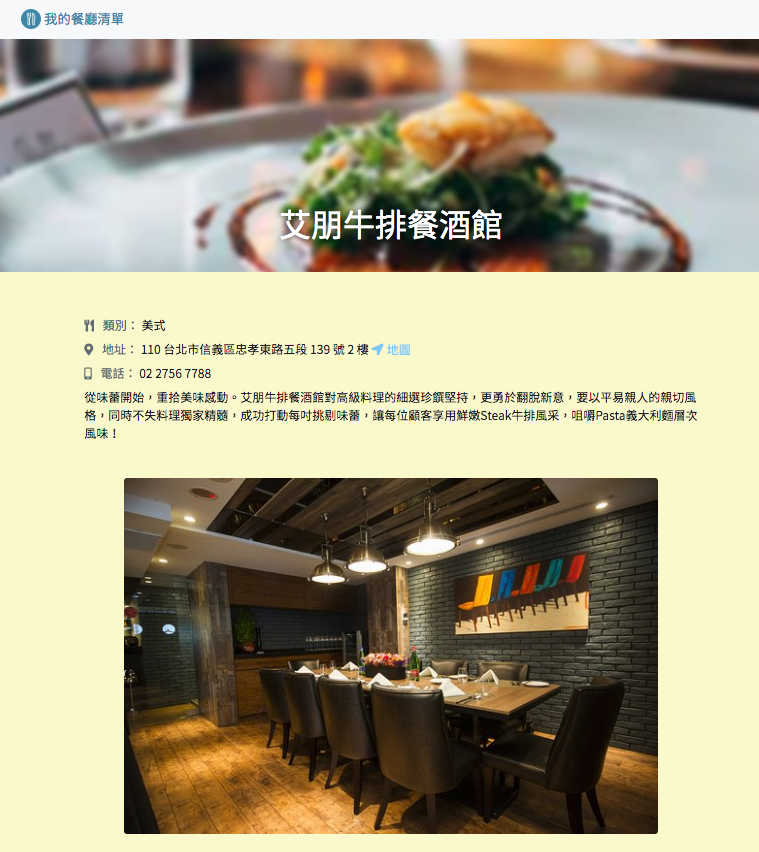
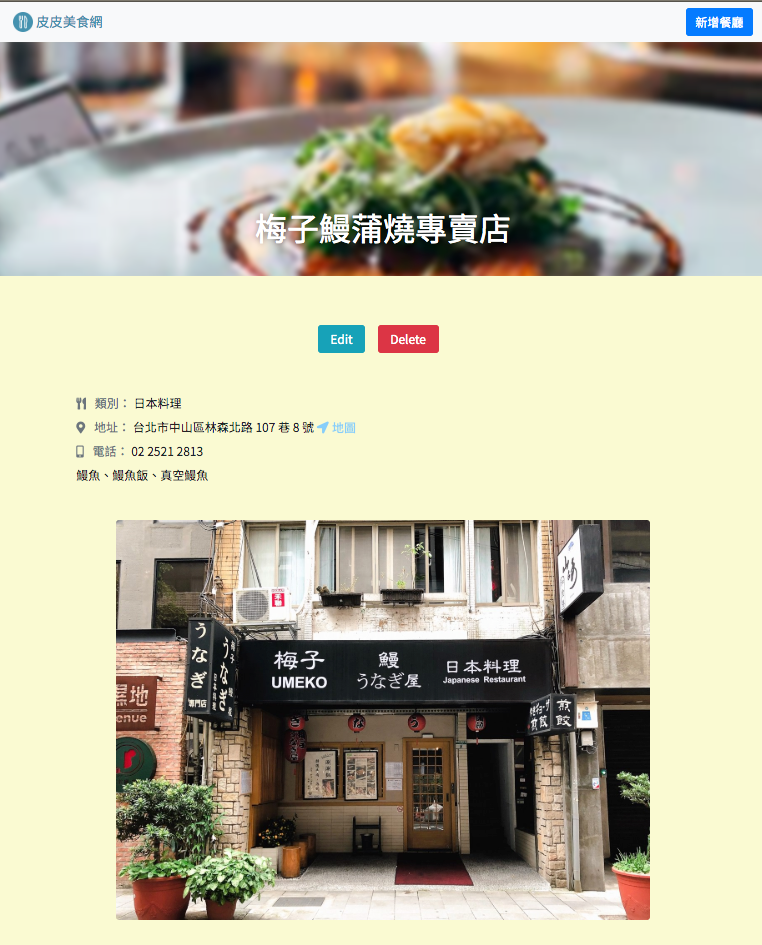
Add README.md

diff --git a/models/seeds/restaurantSeeder.js b/models/seeds/restaurantSeeder.js
@@ -31,5 +31,5 @@ db.once('open', () => {
     });
   }
 
-  console.log('done');
+  console.log('Restaurant date already created!');
 });

diff --git a/README.md b/README.md
@@ -1,25 +1,70 @@
-# Project Title - 餐廳網站
+# 皮皮美食網
 
-一個使用 Node.js + Express 打造的餐廳網站，使用者可依照餐廳名稱與類別進行搜尋
+一個使用 Node.js + Express 打造的餐廳美食網站，使用者可依照餐廳名稱與類別進行搜尋
 
 ## ScreenShot - 專案畫面
-![image](https://github.com/pierceshih15/restaurantList_express/blob/master/public/img/homePage.jpg)
+![image](https://github.com/pierceshih15/restaurantList/blob/master/public/img/homePage.jpg)
 
-![image](https://github.com/pierceshih15/restaurantList_express/blob/master/public/img/restaurantInfo.jpg)
+![image](https://github.com/pierceshih15/restaurantList/blob/master/public/img/restaurantInfo.jpg)
+
+![image](https://github.com/pierceshih15/restaurantList/blob/master/public/img/addNewRestaurant.jpg)
 
 ## Features - 產品功能 
 
 1. 首頁顯示所有餐廳的資料，包含名稱、類別、評價
 2. 使用者點擊任一餐廳後，則會顯示更多餐廳資訊，如地址、電話與簡介
 3. 使用者可依照中文名稱、英文名稱、類別進行餐廳搜尋
+4. 使用者可以新增一家餐廳
+5. 使用者可以瀏覽一家餐廳的詳細資訊
+6. 使用者可以瀏覽全部所有餐廳
+7. 使用者可以修改一家餐廳的資訊
+8. 使用者可以刪除一家餐廳
 
 ## Installing - 專案安裝流程 
 
-1. Clone 此專案至本機電腦
-2. 開啟終端機(Terminal)到存放此專案的資料夾
-3. 輸入 npm install 指令安裝 npm 套件 
-4. 輸入 nodemon app.js 指定安裝 nodemon 套件
-5. 開啟任一瀏覽器輸入 http://localhost:3000 開始使用
+1. 打開你的 terminal，Clone 此專案至本機電腦
+```
+git clone https://github.com/pierceshih15/restaurantList
+```
+2. 開啟終端機(Terminal)，進入存放此專案的資料夾
+```
+cd restaurantList
+```
+3. 安裝 npm 套件 
+```
+在 Terminal 輸入 npm install 指令
+```
+
+4. 安裝 nodemon 套件
+```
+在 Terminal 輸入 nodemon app.js 指令
+```
+
+5. 匯入種子檔案
+
+```
+在 Terminal 找到 restaurantSeeder.js 檔案
+執行 node .\models\seeds\restaurantSeeder.js 匯入餐廳資料
+```
+
+當 terminal 出現以下字樣，即表示種子資料已新增至資料庫，按下 ctrl + c 結束執行
+```
+Mongodb is connected!
+Restaurant date get done!
+```
+
+6. 啟動伺服器，執行 app.js 檔案
+```
+nodemon app.js
+```
+
+7. 開始使用
+當 terminal 出現以下字樣
+```
+The Express server is running on http://localhost:3000
+Mongodb is connected!
+```
+即表示伺服器與資料庫已啟動並成功連結，你可開啟任一瀏覽器瀏覽器輸入 [http://localhost:3000](http://localhost:3000) 就可以開始尋找美食餐廳囉！
 
 ## Contributor - 專案開發人員
 
